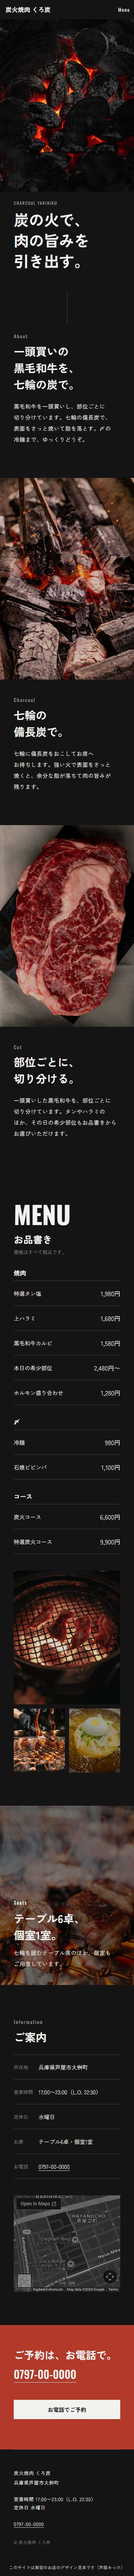
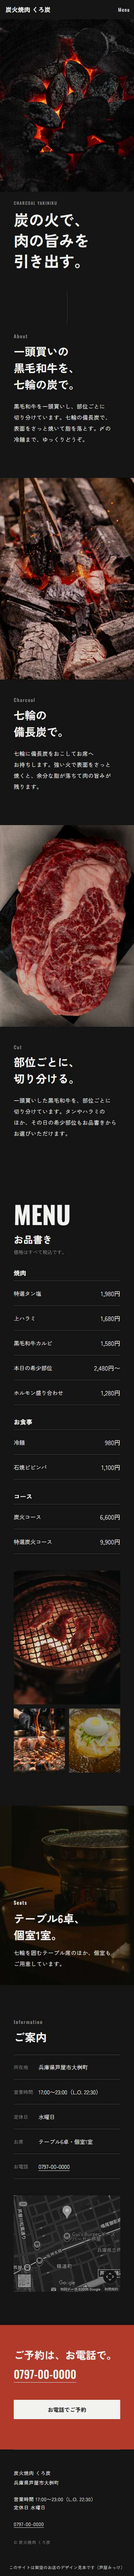
くろ炭：地図の札を消す・Seats の写真を席の写真に・品書きの見出しを「お食事」に（G018）

Changed region(s): [[0.0, 0.6861, 1.0, 0.7797], [0.0923, 0.8421, 0.8923, 0.9044]]

diff --git a/templates/wa-12/SPEC.md b/templates/wa-12/SPEC.md
@@ -162,7 +162,7 @@ G012「炭火焼肉 くろ炭」（架空の焼肉店、七輪の炭火、テー
 | mn1 | 4 左 | 304×380 | 310×388 | 網の上で焼ける肉 | 脂の艶 | yakiniku beef grilling, beef on charcoal grill close up |
 | mn2 | 4 中 | 304×380 | 149×186 | トングで肉を返す手元（顔なし） | 手元のみ・暗い | tongs grilling meat hand, korean bbq tongs close up |
 | mn3 | 4 右 | 304×380 | 149×186 | 冷麺（文字の入らない器） | 暗い地 | naengmyeon cold noodles dark, cold noodles bowl |
-| se1 | 5 全面 | 1440×720 | 390×520 | 焼ける瞬間の煙（横長） | 黒い地に煙 | smoke over grill dark, meat grilling smoke, barbecue smoke black background |
+| se1 | 5 全面 | 1440×720 | 390×520 | 暗めの店内の、無煙ロースターのあるテーブル（横長。G018 で焼ける煙の写真から替えた） | 暗い木の卓に金の光 | yakiniku restaurant table roaster, korean bbq table dark |
 
 合計 7 枠。写真に合わせて品名を変えるときは、焼肉の品としてもっともらしいものだけにする。
 
